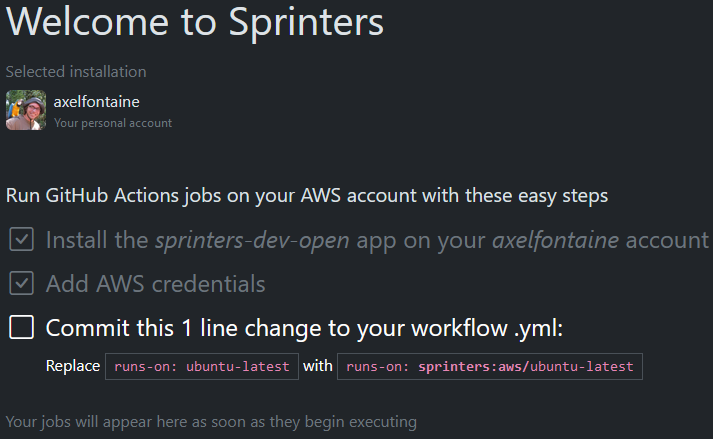
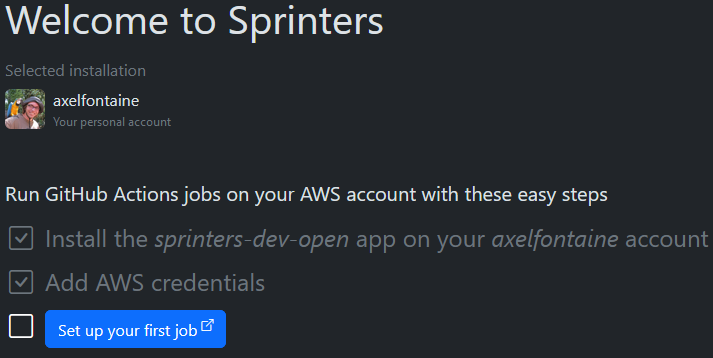
Updated screenshots

diff --git a/docs/setup/job.md b/docs/setup/job.md
@@ -7,7 +7,7 @@ next: docs/label.md
 With Sprinters fully set up, the final thing left to do is to tell GitHub to run your workflow jobs using Sprinters
 on AWS instead of GitHub hosted runners.
 
-This is done by locating the `runs-on` directive in your workflow yml and change the label from
+This is done by locating the `runs-on` directive in your workflow yml and changing the label from
 
 ```yml
 runs-on: ubuntu-latest
@@ -23,7 +23,7 @@ runs-on: sprinters:aws/ubuntu-latest
 
 The easiest way to see this in action (and validate your Sprinters setup) is as follows.
 
-Begin by {% include external-link.html text="forking the `sprinters-sh/sprinters-test` repository" href="https://github.com/sprinters-sh/sprinters-test/fork" %}
+{% include external-link.html text="Fork the `sprinters-sh/sprinters-test` repository" class="btn btn-sm btn-primary" href="https://github.com/sprinters-sh/sprinters-test/fork" %}
 
 ![Fork test repository](/assets/setup/job/fork.png){: .screenshot}
 
@@ -41,7 +41,7 @@ After a few seconds the workflow will appear on GitHub and once it has completed
 
 ![Run workflow](/assets/setup/job/github-succeeded.png){: .screenshot}
 
-Equally on the Sprinters side, you will also see the job with all the details the EC2 instance that ran it:
+The job now also appears in the {% include external-link.html text="Sprinters Console" href="https://console.sprinters.sh" %} with all the details the EC2 instance that ran it:
 
 ![Run workflow](/assets/setup/job/sprinters-succeeded.png){: .screenshot}
 

diff --git a/docs/setup/github.md b/docs/setup/github.md
@@ -77,3 +77,5 @@ The installation now proceeds and after a few seconds GitHub redirects you back 
 ![Sprinters GitHub App installed](/assets/setup/github/welcome.png){: .screenshot}
 
 Congratulations! The Sprinters GitHub App is now fully installed and activated.
+
+Now you can connect it with your AWS account.

diff --git a/docs/setup/aws.md b/docs/setup/aws.md
@@ -142,3 +142,5 @@ And paste them into Sprinters:
 Congratulations! Your AWS account is now successfully connected to Sprinters:
 
 ![AWS account connected](/assets/setup/aws/credentials-success.png){: .screenshot}
+
+All that's left to do is run your first workflow job using Sprinters.
